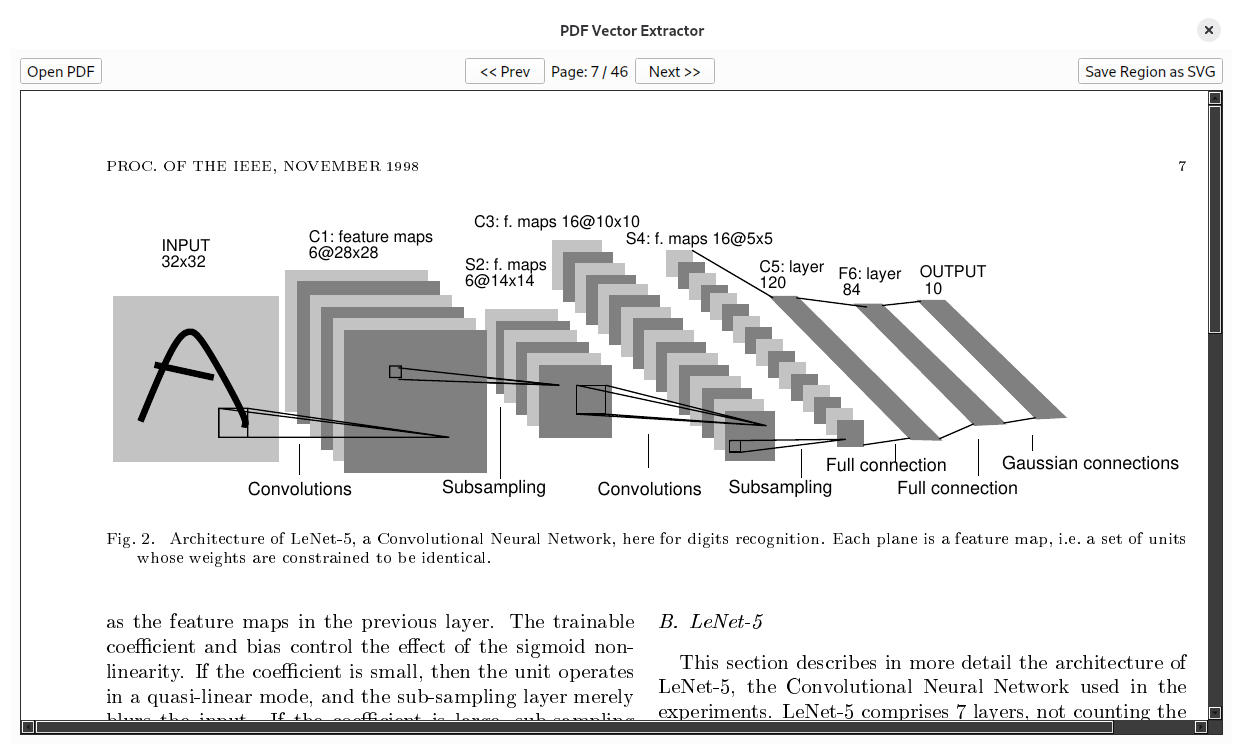
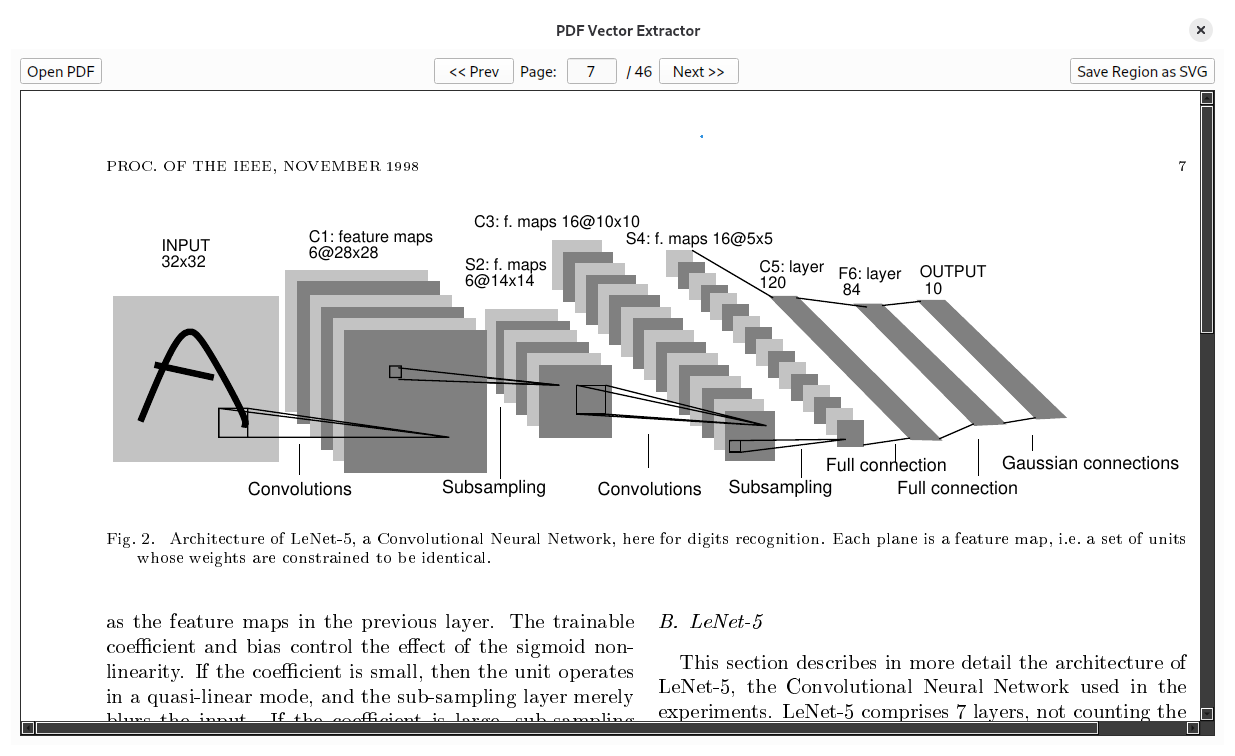
Add ability to jump to specific page directly
* Convert the readonly "current page / total pages" label to be a mix of
  read/write input text for the current page plus readonly "/ total
  pages" label
* Entering a number + pressing <Enter> will jump to that page, if valid
* Validate pages within the range of the PDF file; reset to current page
  if not

Fixes https://github.com/mbrukman/pdf-extract-svg/issues/21

diff --git a/app.py b/app.py
@@ -31,7 +31,7 @@ import sys
 
 from PySide6.QtWidgets import (
     QApplication, QMainWindow, QFileDialog, QLabel, QWidget,
-    QVBoxLayout, QHBoxLayout, QPushButton, QScrollArea
+    QVBoxLayout, QHBoxLayout, QPushButton, QScrollArea, QLineEdit
 )
 from PySide6.QtGui import QPixmap, QPainter, QPen, QColor, QFont
 from PySide6.QtCore import Qt, QRect, QPoint, QSize
@@ -113,17 +113,24 @@ class MainWindow(QMainWindow):
         self.btn_open = QPushButton("Open PDF")
         self.btn_prev = QPushButton("<< Prev")
         self.btn_next = QPushButton("Next >>")
-        self.lbl_page = QLabel("Page: N/A")
+        self.lbl_page_prefix = QLabel("Page: ")
+        self.txt_page_num = QLineEdit()
+        self.txt_page_num.setFixedWidth(50)
+        self.txt_page_num.setAlignment(Qt.AlignCenter)
+        self.lbl_total_pages = QLabel(" / N/A")
         self.btn_save = QPushButton("Save Region as SVG")
 
         self.btn_prev.setEnabled(False)
         self.btn_next.setEnabled(False)
         self.btn_save.setEnabled(False)
+        self.txt_page_num.setEnabled(False)
 
         control_layout.addWidget(self.btn_open)
         control_layout.addStretch()
         control_layout.addWidget(self.btn_prev)
-        control_layout.addWidget(self.lbl_page)
+        control_layout.addWidget(self.lbl_page_prefix)
+        control_layout.addWidget(self.txt_page_num)
+        control_layout.addWidget(self.lbl_total_pages)
         control_layout.addWidget(self.btn_next)
         control_layout.addStretch()
         control_layout.addWidget(self.btn_save)
@@ -152,6 +159,7 @@ class MainWindow(QMainWindow):
         self.btn_prev.clicked.connect(self.prev_page)
         self.btn_next.clicked.connect(self.next_page)
         self.btn_save.clicked.connect(self.save_svg)
+        self.txt_page_num.returnPressed.connect(self.jump_to_page)
 
     def display_error(self, message):
         """Helper to display error messages in the viewer."""
@@ -272,10 +280,26 @@ class MainWindow(QMainWindow):
 
     def update_ui_state(self):
         """Enable/disable buttons based on current state."""
-        self.lbl_page.setText(f"Page: {self.current_page + 1} / {self.total_pages}")
+        self.txt_page_num.setText(str(self.current_page + 1))
+        self.lbl_total_pages.setText(f" / {self.total_pages}")
         self.btn_prev.setEnabled(self.current_page > 0)
         self.btn_next.setEnabled(self.current_page < self.total_pages - 1)
         self.btn_save.setEnabled(True)
+        self.txt_page_num.setEnabled(True)
+
+    def jump_to_page(self):
+        """Jump to the page specified in the text box."""
+        try:
+            page_num = int(self.txt_page_num.text())
+            if 1 <= page_num <= self.total_pages:
+                self.current_page = page_num - 1
+                self.render_page()
+            else:
+                # Reset to current page if out of range
+                self.txt_page_num.setText(str(self.current_page + 1))
+        except ValueError:
+            # Reset to current page if invalid input
+            self.txt_page_num.setText(str(self.current_page + 1))
 
     def prev_page(self):
         """Move to the previous page in this file, if we're not at the beginning."""

diff --git a/README.md b/README.md
@@ -31,13 +31,8 @@ details.
 
 When you open the app, you will see a blank screen. Click on "Open PDF" button
 in the upper left and select a PDF. Once the PDF is opened, you can navigate
-pages using "<< Prev" and "Next >>" buttons.
-
-> [!NOTE]
-> There's no "jump to page number" functionality available yet; I plan to add
-> this in the future. If you need this feature sooner, please vote with thumbs
-> up on [this issue](https://github.com/mbrukman/pdf-extract-svg/issues/21).
-> Thanks!
+pages using "<< Prev" and "Next >>" buttons, or type in a page number and press
+Enter to jump to it directly.
 
 Now, you will see the PDF rendered on your screen as follows (this is the LeNet
 paper):
